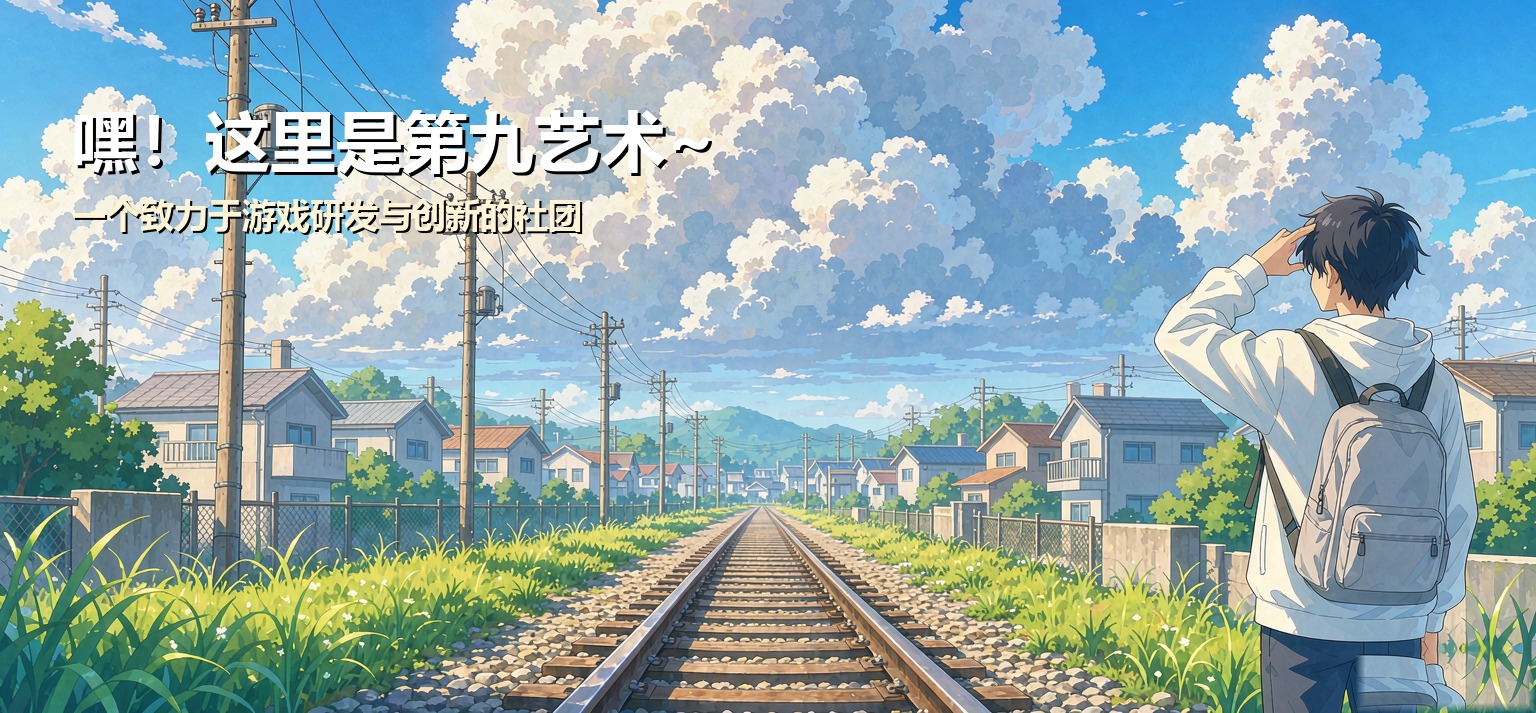
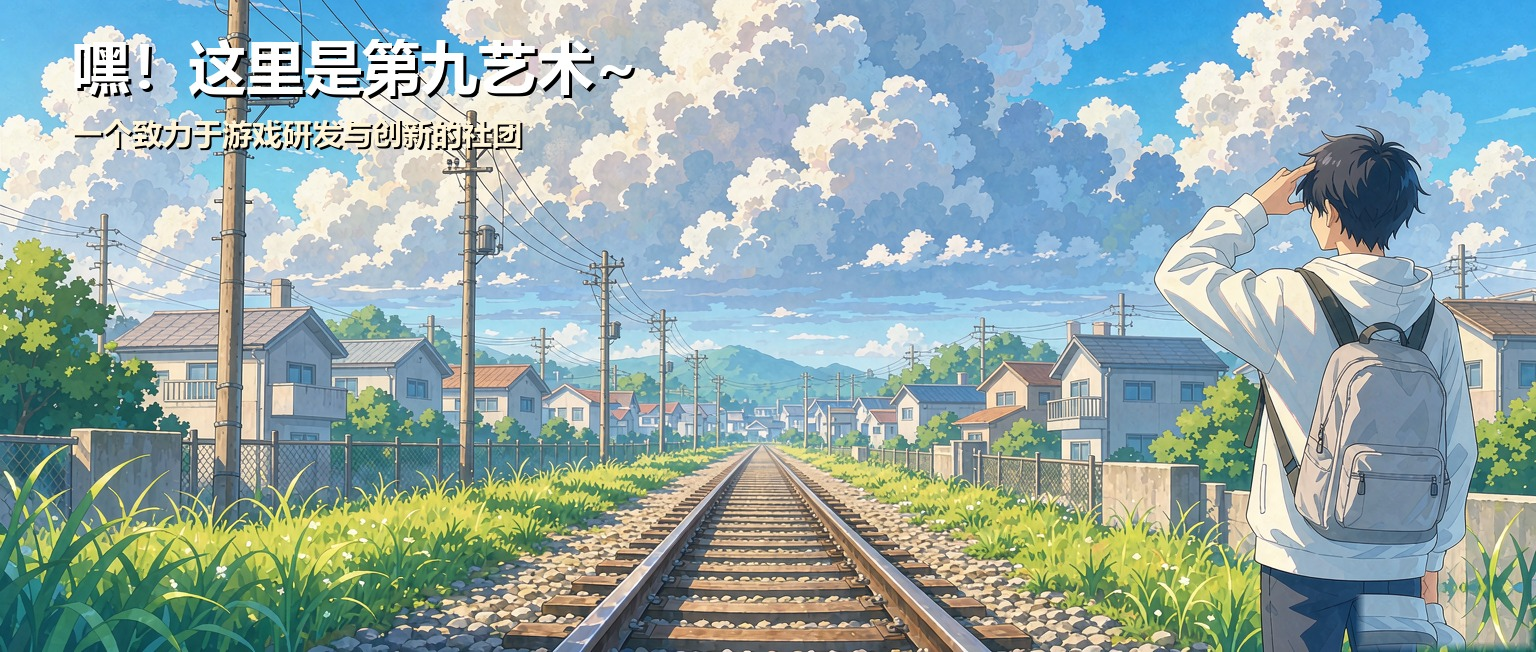
横幅裁大部天空(1536x652)，撤限宽与网格两边对齐

diff --git a/public/index.html b/public/index.html
@@ -60,8 +60,7 @@
   .carousel {
     position: relative;
     background: #14141B; border-radius: 12px;
-    aspect-ratio: 1536 / 713; margin: 0 auto 20px; overflow: hidden;
-    max-width: min(100%, 950px);
+    aspect-ratio: 1536 / 652; margin-bottom: 20px; overflow: hidden;
     cursor: pointer; transition: transform .15s;
   }
   .carousel:hover { transform: translateY(-2px); }
